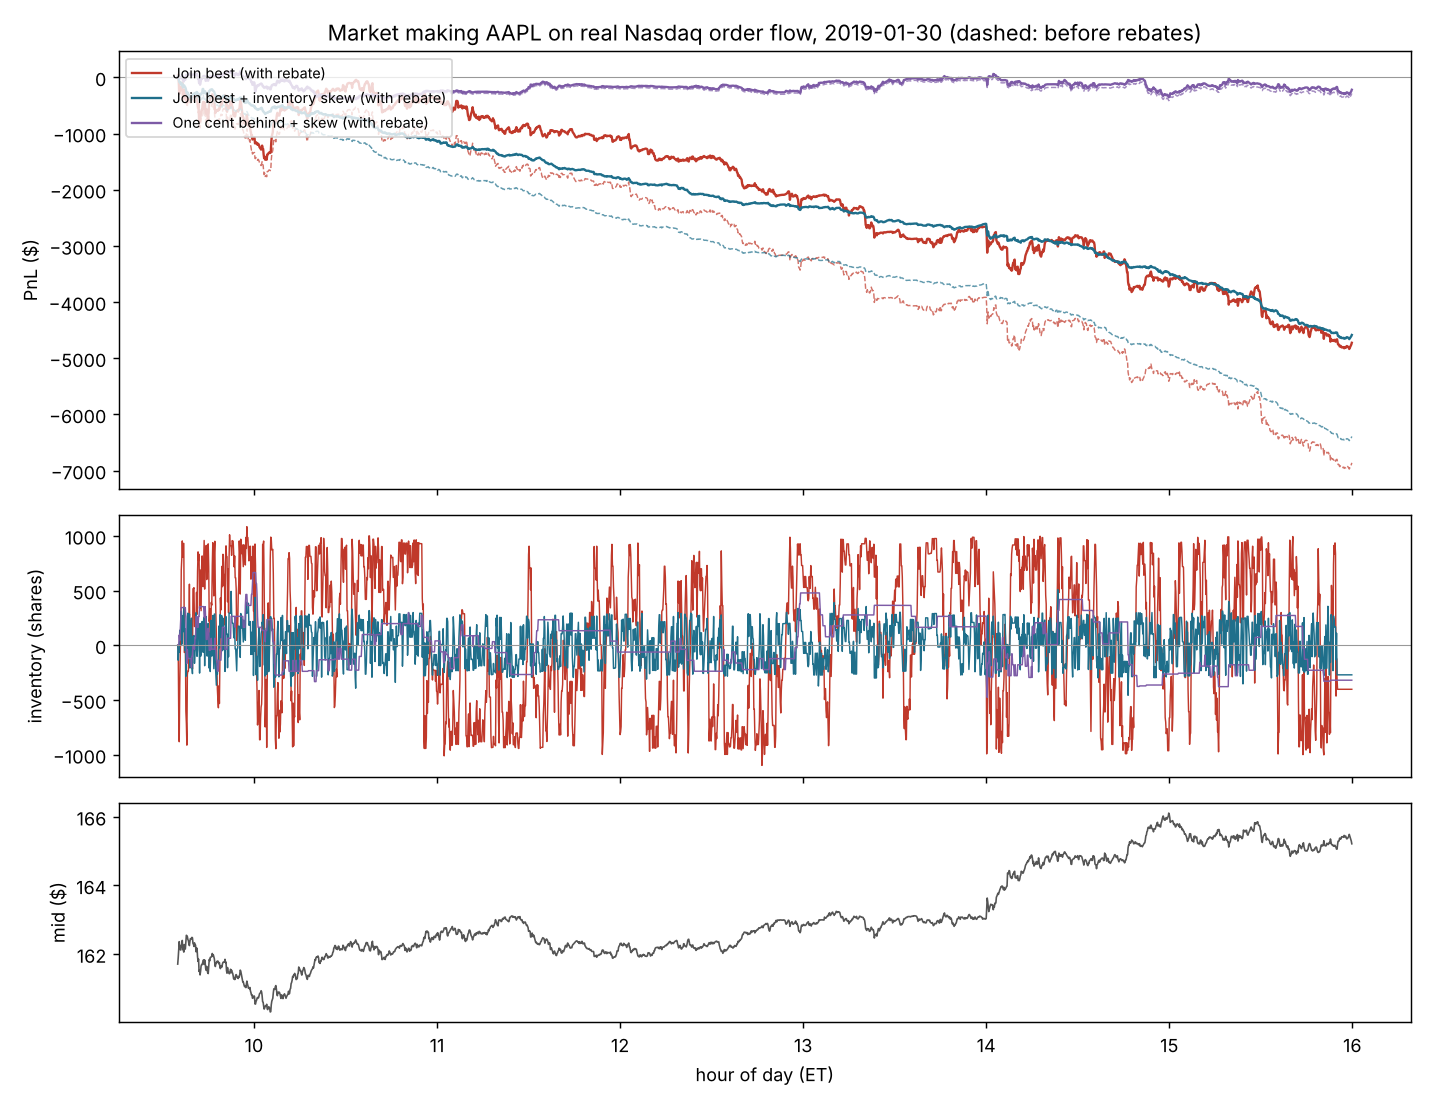
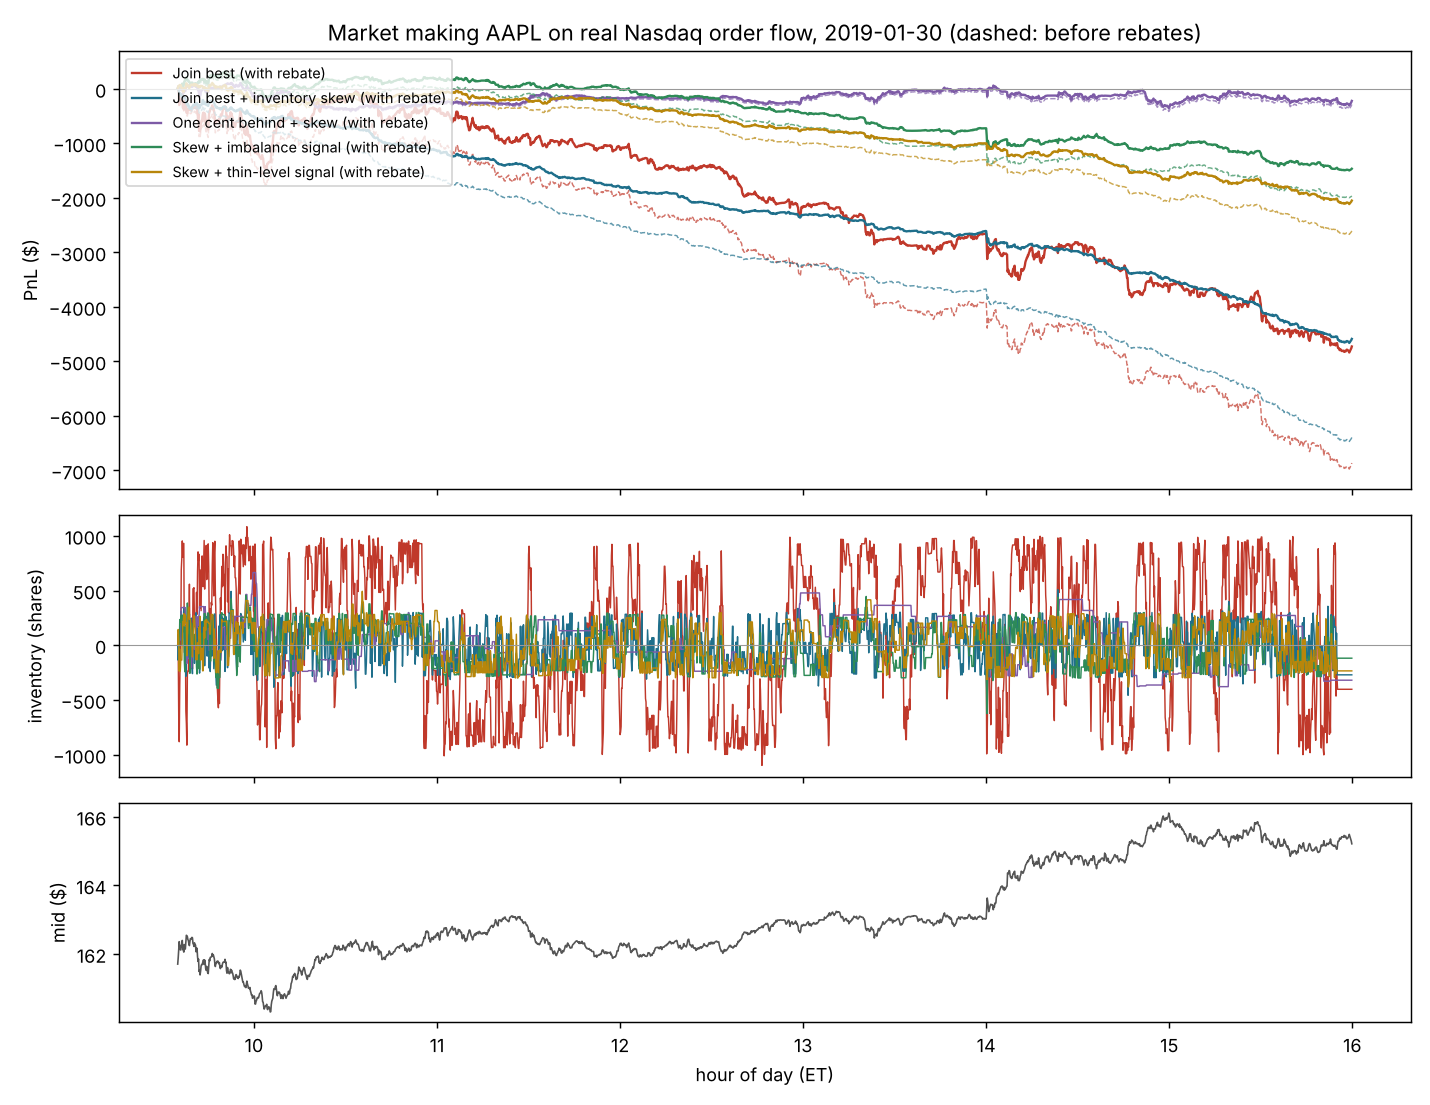
Real-data backtest: imbalance and thin-level signals, queue-position breakdown
Claude-Session: https://claude.ai/code/session_01Y9DQ5Wwj9wEWMWrwjW3dpA

diff --git a/backtest/real_mm.py b/backtest/real_mm.py
@@ -55,6 +55,14 @@ class Strategy:
     max_inventory: int = 1_000
     latency_ns: int = 0  # time for a place or cancel to take effect
     rebate_per_share: float = 0.0020  # dollars for each share filled as the passive side (assumed)
+    # Signal: top-of-book imbalance I = (bid size - ask size) / (bid size + ask size), in [-1, 1].
+    # Strongly positive means buyers are stacked up and the price tends to tick up next, so a resting
+    # ask is about to be picked off: pull it while I > threshold (and the bid while I < -threshold).
+    imbalance_pull: float = 0.0  # 0 = off
+    # Signal: a best level with few shares left is about to break, and a quote at the back of it
+    # would fill just before the price moves through. Pull our quote there while the real size
+    # at that best price is below this many shares.
+    min_level_shares: int = 0  # 0 = off
 
 
 @dataclass
@@ -150,20 +158,30 @@ class ShadowMaker:
             q.ahead[ref] = left
 
     # ---------- quoting ----------
-    def targets(self, best_bid: int | None, best_ask: int | None, ts: int) -> dict[int, int | None]:
+    def targets(self, book: "obfast.Book", ts: int) -> dict[int, int | None]:
+        best_bid, best_ask = book.best_bid(), book.best_ask()
         if not (QUOTE_START <= ts < QUOTE_END) or best_bid is None or best_ask is None:
             return {BUY: None, SELL: None}
         s, inv = self.s, self.inventory
+        pull_bid = pull_ask = False
+        if s.imbalance_pull or s.min_level_shares:
+            bq, aq = book.depth(BUY, 1)[0][1], book.depth(SELL, 1)[0][1]
+            if s.imbalance_pull:
+                imb = (bq - aq) / (bq + aq)
+                pull_bid, pull_ask = imb < -s.imbalance_pull, imb > s.imbalance_pull
+            if s.min_level_shares:
+                pull_bid = pull_bid or bq < s.min_level_shares
+                pull_ask = pull_ask or aq < s.min_level_shares
         skew = (abs(inv) // s.skew_step) if s.skew_step else 0
         bid = best_bid - s.back_ticks - (skew if inv > 0 else 0)
         ask = best_ask + s.back_ticks + (skew if inv < 0 else 0)
         return {
-            BUY: bid if inv + s.size <= s.max_inventory else None,
-            SELL: ask if inv - s.size >= -s.max_inventory else None,
+            BUY: bid if inv + s.size <= s.max_inventory and not pull_bid else None,
+            SELL: ask if inv - s.size >= -s.max_inventory and not pull_ask else None,
         }
 
     def requote(self, book: "obfast.Book", ts: int) -> None:
-        want = self.targets(book.best_bid(), book.best_ask(), ts)
+        want = self.targets(book, ts)
         for side in (BUY, SELL):
             q = self.quotes[side]
             target = want[side]
@@ -272,8 +290,8 @@ def run(events: Events, strat: Strategy, record_every_ns: int = 10 * NS):
                 mid_t.append(ts)
                 mid_v.append((bb + ba) / 2)
             mm.requote(book, ts)
-        elif mm.quotes[BUY] is None or mm.quotes[SELL] is None:
-            mm.requote(book, ts)
+        elif strat.imbalance_pull or strat.min_level_shares or mm.quotes[BUY] is None or mm.quotes[SELL] is None:
+            mm.requote(book, ts)  # the signal can change without the best prices changing
         if ts >= next_record and mid_v:
             next_record = (ts // record_every_ns + 1) * record_every_ns
             if QUOTE_START <= ts <= QUOTE_END + 5 * 60 * NS:
@@ -345,7 +363,27 @@ STRATEGIES = [
     Strategy("Join best", back_ticks=0),
     Strategy("Join best + inventory skew", back_ticks=0, skew_step=200),
     Strategy("One cent behind + skew", back_ticks=1, skew_step=200),
+    Strategy("Skew + imbalance signal", skew_step=200, imbalance_pull=0.2),
+    Strategy("Skew + thin-level signal", skew_step=200, min_level_shares=200),
 ]
+QUEUE_BINS = [-1, 0, 100, 300, 600, 1500, 10**12]
+QUEUE_LABELS = ["0 (alone)", "1-100", "101-300", "301-600", "601-1500", ">1500"]
+
+
+def queue_breakdown(fills: pd.DataFrame, mids) -> pd.DataFrame:
+    """Fill quality by how many real shares were ahead of the quote when it was placed."""
+    t, m = mids
+    out = fills.copy()
+    for h in (0.1, 1, 10):
+        idx = np.searchsorted(t, out["ts_ns"].to_numpy() + int(h * NS), side="right") - 1
+        out[f"mk_{h:g}s"] = out["sign"].to_numpy() * (m[np.clip(idx, 0, len(m) - 1)] * 100 - out["price_c"].to_numpy())
+    out["shares_ahead"] = pd.cut(out["ahead_at_place"], bins=QUEUE_BINS, labels=QUEUE_LABELS)
+    rows = []
+    for label, d in out.groupby("shares_ahead", observed=True):
+        rows.append({"shares_ahead_at_placement": label, "fills": len(d), "shares": int(d["qty"].sum()),
+                     **{f"markout_{h}_cents": float(np.average(d[f"mk_{h}"], weights=d["qty"])) for h in ("0.1s", "1s", "10s")},
+                     "median_wait_s": float(d["wait_ns"].median() / NS)})
+    return pd.DataFrame(rows)
 LATENCIES_US = [0, 100, 1_000, 10_000, 100_000]
 
 
@@ -391,15 +429,19 @@ def main() -> None:
               f"markout 1s {summary['markout_1s_cents']:+.2f}c")
 
     df = pd.DataFrame(results)
+    df["pnl_per_100_shares"] = df["pnl_with_rebate"] / df["shares"].clip(lower=1) * 100
     lat = pd.DataFrame(lat_rows)
     df.to_csv(out / "strategies.csv", index=False, float_format="%.4g")
+    qb = queue_breakdown(fills_by[STRATEGIES[1].name], mids)
+    qb.to_csv(out / "queue.csv", index=False, float_format="%.4g")
+    print(qb.round(3).to_string(index=False))
     lat.to_csv(out / "latency.csv", index=False, float_format="%.4g")
     charts(plt, out, df, lat, timelines, fills_by, mids)
-    print(f"Wrote {out}/strategies.csv, latency.csv, day.png, markouts.png, latency.png")
+    print(f"Wrote {out}/strategies.csv, latency.csv, queue.csv, day.png, markouts.png, latency.png")
 
 
 def charts(plt, out: Path, df, lat, timelines, fills_by, mids) -> None:
-    colors = ["#c0392b", "#1f6f8b", "#7d5ba6"]
+    colors = ["#c0392b", "#1f6f8b", "#7d5ba6", "#2e8b57", "#b8860b"]
     hours = lambda ns: ns / NS / 3600  # noqa: E731
 
     fig, (a, b, c) = plt.subplots(3, 1, figsize=(11, 8.5), sharex=True, gridspec_kw={"height_ratios": [2, 1.2, 1]})

diff --git a/backtest/test_real_mm.py b/backtest/test_real_mm.py
@@ -32,6 +32,33 @@ def book_setup(t0=T):
     ]
 
 
+class Signals(unittest.TestCase):
+    def quoted_sides(self, strat, rows):
+        _, _, fills, _ = run(stream(*rows), strat)
+        return fills
+
+    def test_imbalance_pulls_the_threatened_side(self):
+        # Bids 900 shares vs asks 100: imbalance +0.8 -> the ask is pulled, the bid stays.
+        rows = [(T, "A", 1, "B", 900, px(100.00)), (T + 1, "A", 2, "S", 100, px(100.02)),
+                (T + 5, "A", 3, "S", 300, px(100.02)),          # joins behind any ask we had
+                (T + 10, "E", 2, "S", 100, px(100.02)),
+                (T + 11, "E", 3, "S", 50, px(100.02))]          # would fill a resting ask
+        on = Strategy("imb", size=100, max_inventory=10_000, rebate_per_share=0.0, imbalance_pull=0.5)
+        off = Strategy("plain", size=100, max_inventory=10_000, rebate_per_share=0.0)
+        self.assertTrue((run(stream(*rows), off)[2]["sign"] == -1).any())
+        self.assertFalse((run(stream(*rows), on)[2]["sign"] == -1).any())
+
+    def test_thin_level_pulls_quote(self):
+        rows = [(T, "A", 1, "B", 100, px(100.00)), (T + 1, "A", 2, "S", 1000, px(100.02)),
+                (T + 5, "A", 3, "B", 50, px(100.00)),
+                (T + 10, "E", 1, "B", 100, px(100.00)),
+                (T + 11, "E", 3, "B", 50, px(100.00))]          # would fill a resting bid
+        thin = Strategy("thin", size=100, max_inventory=10_000, rebate_per_share=0.0, min_level_shares=500)
+        plain = Strategy("plain", size=100, max_inventory=10_000, rebate_per_share=0.0)
+        self.assertTrue((run(stream(*rows), plain)[2]["sign"] == 1).any())
+        self.assertFalse((run(stream(*rows), thin)[2]["sign"] == 1).any())
+
+
 class FillRules(unittest.TestCase):
     STRAT = Strategy("test", size=100, max_inventory=10_000, rebate_per_share=0.0)
 

diff --git a/backtest/README.md b/backtest/README.md
@@ -67,9 +67,36 @@ Placing and cancelling take effect after a latency. Even at zero latency nothing
 | Edge at fill | +0.87¢ | +0.60¢ | +0.34¢ | +0.22¢ | +0.10¢ |
 | Markout 1 s | −0.29¢ | −0.43¢ | −0.55¢ | −0.68¢ | −0.82¢ |
 
-Every step slower makes things worse, because a slow cancel leaves a stale quote out for faster traders to hit. That's why market makers spend so much on speed. Even at zero latency a naive strategy loses: profitable market making needs a signal for when *not* to quote (the next thing to try here: pull quotes when the book imbalance or recent trades point against them).
+Every step slower makes things worse, because a slow cancel leaves a stale quote out for faster traders to hit. That's why market makers spend so much on speed.
 
 ![Latency](results/real/latency.png)
+
+**Trying signals: when *not* to quote.** Two signals were added to the skewed strategy, both re-checked on every book event:
+- *Imbalance:* with `imb = (bid size − ask size) / (bid size + ask size)` at the top of the book, pull the bid when `imb < −threshold` and the ask when `imb > threshold`. A thin side tends to be the next one to get eaten.
+- *Thin level:* pull a quote when its price level has fewer than N real shares on it.
+
+| Variant (100 µs, with rebate) | PnL | Shares | PnL per 100 shares | Markout 1 s |
+|---|---|---|---|---|
+| Skew, no signal | −$4,597 | 903,776 | −$0.51 | −0.43¢ |
+| + imbalance, threshold 0.2 | −$1,470 | 249,562 | −$0.59 | −0.41¢ |
+| + thin level, < 200 shares | −$2,059 | 278,040 | −$0.74 | −0.50¢ |
+
+| Imbalance threshold | 0 (off) | 0.2 | 0.4 | 0.6 | 0.8 |
+|---|---|---|---|---|---|
+| PnL with rebate | −$4,597 | −$1,470 | −$1,739 | −$2,546 | −$3,083 |
+| Shares | 904k | 250k | 342k | 466k | 630k |
+
+Both signals cut the day's loss by 55–70%, but **neither made it profitable, and neither improved the fills**: the loss per share and the markouts stay the same or get worse. The signals help by trading less, not by picking better trades. Pulling harder (a thin-level cutoff of 800 shares) gets the loss to about −$170, but only by barely trading (28k shares).
+
+**Where the losses come from.** Splitting the skewed strategy's fills by how many real shares were ahead of the quote when it was placed (`results/real/queue.csv`):
+
+| Shares ahead at placement | 0 (alone) | 1–100 | 101–300 | 301–600 | 601–1500 | >1500 |
+|---|---|---|---|---|---|---|
+| Shares filled | 155k | 225k | 228k | 109k | 175k | 13k |
+| Markout 0.1 s | −0.73¢ | −0.33¢ | −0.34¢ | −0.35¢ | −0.25¢ | −0.57¢ |
+| Median wait to fill | 1 ms | 0.37 s | 0.57 s | 0.72 s | 0.80 s | 0.85 s |
+
+The worst fills, at twice the loss of the others, are quotes that landed *alone*: they arrived after their level had already emptied and were filled within a millisecond by the same move that cleared it. That's latency again. The quote is stale on arrival. Fixing it needs either a faster reaction (see the latency table) or a short-horizon price prediction good enough to stay out of the way, which top-of-book signals alone don't give.
 
 **Limitations**
 - Shadow orders have no market impact. In reality the market maker's 100 shares would have taken some fills from other orders and could have changed what others did, so fill counts are on the high side.

diff --git a/README.md b/README.md
@@ -45,7 +45,7 @@ python -m unittest -v        # all tests
 ![AAPL on 2019-01-30, rebuilt from Nasdaq ITCH](cpp/itch/results/AAPL_2019-01-30.png)
 
 ## Market making on real Nasdaq data
-`backtest/real_mm.py` runs a market maker against all 1.67M of Apple's order events on 2019-01-30, with quotes as shadow orders whose queue position is tracked exactly from the order-level feed. Quoting at the best bid and ask all day **loses money**. Fills average 0.6¢ better than the mid, but within 0.1 s the mid has moved about 1¢ against them (adverse selection). Every step slower, from 0 to 100 ms, loses more: −$2.7k to −$10.9k for the day. See `backtest/README.md`.
+`backtest/real_mm.py` runs a market maker against all 1.67M of Apple's order events on 2019-01-30, with quotes as shadow orders whose queue position is tracked exactly from the order-level feed. Quoting at the best bid and ask all day **loses money**. Fills average 0.6¢ better than the mid, but within 0.1 s the mid has moved about 1¢ against them (adverse selection). Every step slower, from 0 to 100 ms, loses more: −$2.7k to −$10.9k for the day. Pulling quotes when the book is lopsided cuts the loss by about 70%, but by trading less, not by trading better. See `backtest/README.md`.
 
 ![Markouts on real AAPL fills](backtest/results/real/markouts.png)
 
